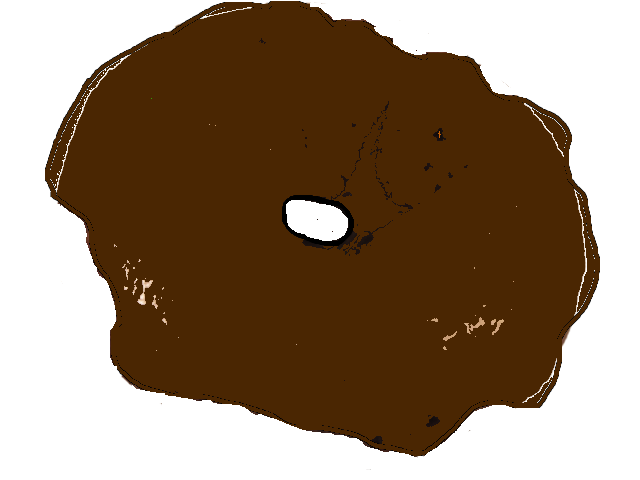
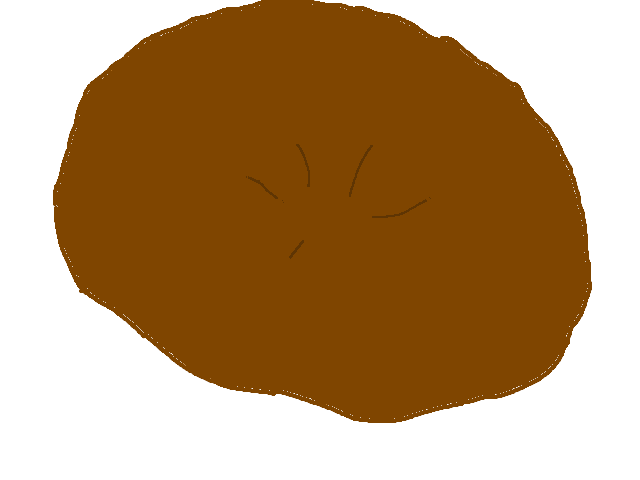
changed the icing images for choc donut

diff --git a/src/components/Header/Header.js b/src/components/Header/Header.js
@@ -1,6 +1,6 @@
 import React from "react";
 import { Link } from "react-router-dom";
-import { connect } from "react-redux";
+// import { connect } from "react-redux";
 import "./Header.css";
 import logo from "../images/cropped-DonutIcon.png";
 import Slide from "./Slide";
@@ -25,7 +25,4 @@ const Header = props => {
   );
 };
 
-function mapStateToProps(state) {
-  return { ...state.userReducer };
-}
-export default connect(mapStateToProps)(Header);
+export default Header;

diff --git a/src/components/Toppings/Droptop/Droptop.js b/src/components/Toppings/Droptop/Droptop.js
@@ -5,7 +5,7 @@ import "./Droptop.css";
 import cake from "../../images/cake.png";
 import choc from "../../images/chocolate.png";
 import chocrasp from "../../images/chocwrasp.png";
-import chocwcaramel from "../../images/chocwcaramelicing.png";
+import chocwcaramel from "../../images/chopb.png";
 import chocwchoc from "../../images/chocwchocicing.png";
 import chocbacon from "../../images/chocbacon.png";
 import chocstraw from "../../images/chocstraw.png";

diff --git a/src/components/Header/Slide.js b/src/components/Header/Slide.js
@@ -6,6 +6,7 @@ import { getUser } from "../../ducks/userReducer";
 import bag from "../images/lunchbox.png";
 import profileimg from "../images/profile.png";
 import "./Slide.css";
+
 class Slide extends Component {
   constructor(props) {
     super(props);
@@ -31,6 +32,7 @@ class Slide extends Component {
   }
 
   render() {
+    console.log(this.props);
     let donutCount = 0;
     {
       this.props.box && this.props.box.length > 0

diff --git a/src/ducks/donutReducer.js b/src/ducks/donutReducer.js
@@ -192,8 +192,10 @@ function donutReducer(state = initialState, action) {
       };
     case `${GET_TOPPINGS}_FULFILLED`:
       return {
+        // Object.assign({}, state, { currentToppings: action.payload.data });
         ...state,
         currentToppings: state.currentToppings.concat(action.payload.data)
+        // currentToppings: action.payload.data
       };
     case `${CHANGE_TOPPING}_FULFILLED`:
       return {

diff --git a/src/components/Order/Pay/Pay.css b/src/components/Order/Pay/Pay.css
@@ -23,7 +23,7 @@
 
 .ready > h2 {
   font-family: "Dokdo", cursive;
-  font-size: 45px;
+  font-size: 41px;
 }
 .return {
   margin: 20px auto;
@@ -33,4 +33,10 @@
   border-radius: 4px;
   color: white;
   font-size: 14px;
+}
+
+@media (min-width: 767px) {
+  .ready > h2 {
+    font-size: 45px;
+  }
 }

diff --git a/src/components/Box/Box.js b/src/components/Box/Box.js
@@ -29,6 +29,7 @@ class Box extends Component {
   edit;
 
   render() {
+    console.log(this.props);
     let dozen = (
       <div className="not-logged">
         {this.props.user.id ? (

diff --git a/src/App.css b/src/App.css
@@ -91,6 +91,7 @@ video {
   font: inherit;
   vertical-align: baseline;
   box-sizing: border-box;
+  outline: none;
 }
 /* HTML5 display-role reset for older browsers */
 article,

diff --git a/src/components/Box/ShowBox/ShowBox.css b/src/components/Box/ShowBox/ShowBox.css
@@ -30,6 +30,7 @@
 .showbox {
   display: flex;
   justify-content: space-between;
+  align-items: center;
   margin: 20px;
 }
 @media (min-width: 767px) {
